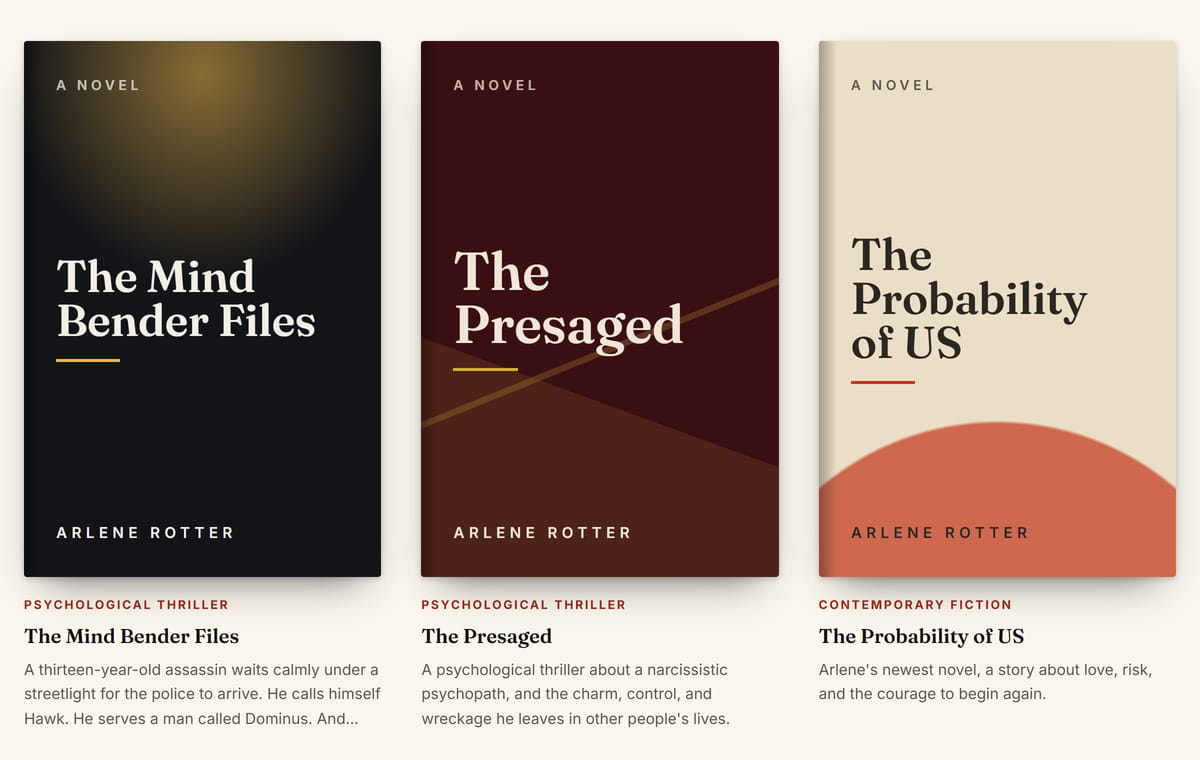
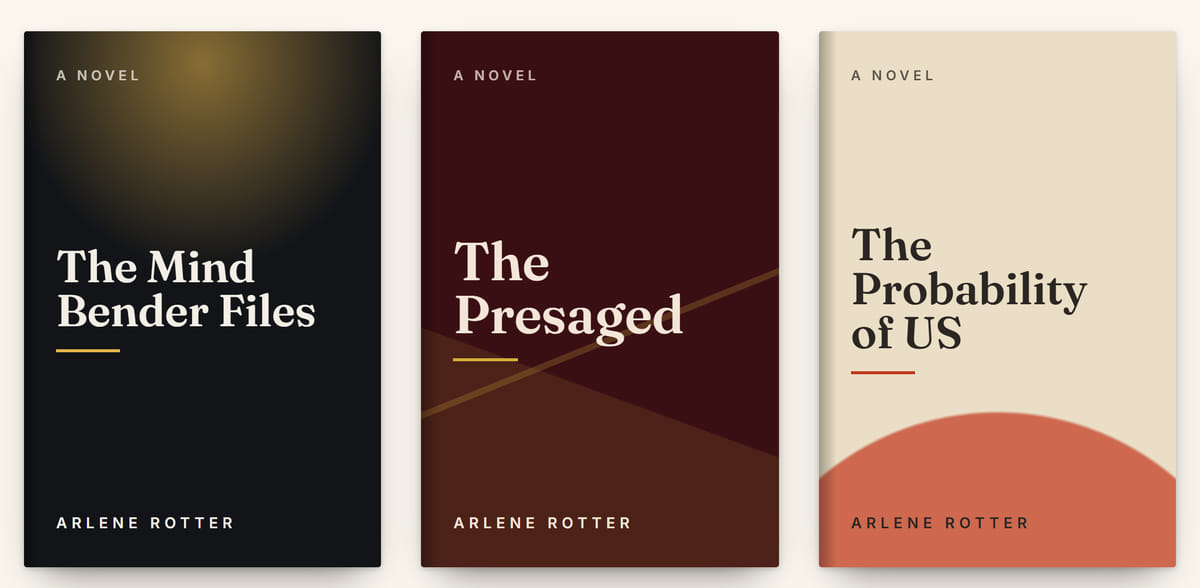
add

diff --git a/pages/work-with-us/projects/arlene-rotter-author.vue b/pages/work-with-us/projects/arlene-rotter-author.vue
@@ -1,6 +1,8 @@
 <template>
   <div>
-    <!-- Concept prototype, not client work: shown with Arlene's permission, noindex until she agrees to more -->
+    <!-- Concept prototype, not client work. Arlene agreed on 2026-10-30 to it being featured here, on the terms
+         Quan gave her: labelled as a prototype, credited to her, and none of her unpublished writing without her
+         permission. Do not quote her private messages without asking her. -->
     <!-- Hero Section -->
     <section class="hero">
       <div class="hero-content">
@@ -20,14 +22,14 @@
         <div class="hero-meta">
           <span class="meta-tag">Role: Concept, Design &amp; Development</span>
           <span class="meta-tag">Author &amp; Novelist</span>
-          <!-- The prototype is noindex, nofollow itself, so the link passes nothing on -->
-          <a href="https://arlene-rotter.skill-wanderer.com" target="_blank" rel="noopener noreferrer nofollow" class="meta-tag link-tag">arlene-rotter.skill-wanderer.com →</a>
+          <!-- No link to the live prototype until Arlene confirms: it carries the full Chapter One of an unpublished
+               novel. When she does, add it back here with rel="noopener noreferrer nofollow". -->
         </div>
         <div class="prototype-banner">
           <span class="prototype-banner-label">Concept Prototype</span>
           <p>
-            Built by Skill-Wanderer in October 2026 and shown here with Arlene's permission. It is not her official
-            website and not a client project, and its contact form is a demo that sends nothing.
+            A free prototype we built for Arlene, shown here with her permission. The books and the writing are hers;
+            the design and the build are ours. It is not her official website and not a client project.
           </p>
         </div>
       </div>
@@ -39,7 +41,7 @@
         <h2>Overview</h2>
         <p>
           Dr. Arlene Rotter spent 41 years in education, earned a Ph.D., founded her own school, and now writes full
-          time as The Rebel Writer™. She has written more than 25 books, from psychological thrillers and political
+          time as The Rebel Writer™. She has written 25 books and counting, from psychological thrillers and political
           sci-fi to historical fiction, memoir and Southern humor, and she is seeking literary representation for
           three finished novels. This prototype shows the website that kind of career needs: a shelf for the
           published books, a pitch for the new manuscripts, and a way to try her voice before committing to a whole
@@ -48,8 +50,22 @@
       </div>
     </section>
 
-    <!-- The Challenge Section -->
+    <!-- How It Started Section -->
     <section class="detail-section">
+      <div class="detail-container">
+        <h2>How It Started</h2>
+        <p>
+          I had been reading Arlene's posts on LinkedIn since the spring of 2026, and as we talked, her goal became
+          clear: to put her books in front of far more readers, with a literary agent behind them. A website could
+          help, but that is easier to show than to explain, so I offered to build a prototype first, with no upfront
+          payment and no obligation to keep it. Two days later it was online, built from her writing, our
+          conversations and a sample chapter she shared with me.
+        </p>
+      </div>
+    </section>
+
+    <!-- The Challenge Section -->
+    <section class="detail-section darker">
       <div class="detail-container">
         <h2>The Challenge</h2>
         <p>
@@ -63,7 +79,7 @@
     </section>
 
     <!-- Agents Section -->
-    <section class="detail-section darker">
+    <section class="detail-section">
       <div class="detail-container">
         <h2>Built Around an Agent's Inbox</h2>
         <div class="highlight-box">
@@ -81,7 +97,7 @@
     </section>
 
     <!-- What I Built Section -->
-    <section class="detail-section">
+    <section class="detail-section darker">
       <div class="detail-container">
         <h2>What I Built</h2>
         <p class="section-intro">
@@ -164,8 +180,9 @@
       </div>
     </section>
 
-    <!-- Screens Section: screenshots of the live prototype, taken 2 November 2026 -->
-    <section class="detail-section darker">
+    <!-- Screens Section: screenshots of the live prototype, taken 2 November 2026.
+         Keep them free of her unpublished prose and of the premises of her unpublished novels. -->
+    <section class="detail-section">
       <div class="detail-container">
         <h2>Inside the Prototype</h2>
         <div class="screens-grid">
@@ -198,7 +215,7 @@
     </section>
 
     <!-- Tech Stack Section -->
-    <section class="detail-section">
+    <section class="detail-section darker">
       <div class="detail-container">
         <h2>Tech Stack &amp; Hosting</h2>
         <div class="tech-grid">
@@ -239,7 +256,7 @@
     </section>
 
     <!-- My Role Section -->
-    <section class="detail-section darker">
+    <section class="detail-section">
       <div class="detail-container">
         <h2>My Role</h2>
         <p class="section-intro">
@@ -256,33 +273,50 @@
     </section>
 
     <!-- Why It Is Here Section -->
-    <section class="detail-section">
+    <section class="detail-section darker">
       <div class="detail-container">
         <h2>Why It Is in Our Portfolio</h2>
         <blockquote class="featured-quote">
-          Compare this site with the ones we built for
+          This is what our free prototype looks like: a working site, made for one person, before any payment or
+          commitment. Compare it with the ones we built for
           <NuxtLink to="/work-with-us/projects/matt-harr-speaker">a speaker</NuxtLink>,
           <NuxtLink to="/work-with-us/projects/broad-strokes-studio">a calligrapher</NuxtLink> and
           <NuxtLink to="/work-with-us/projects/the-meek-method">a coach</NuxtLink>, and you will find no shared
-          template. Each business needs different pages, a different path to the first enquiry, and a different
-          first impression. That is why every accepted project starts with a free working prototype: you react to a
-          site made for your business before you commit to anything.
+          template, because each business needs different pages, a different path to the first enquiry, and a
+          different first impression. It is also here, with Arlene's permission, to help a few more readers find The
+          Rebel Writer.
         </blockquote>
       </div>
     </section>
 
     <!-- Project Status Section -->
-    <section class="detail-section darker">
+    <section class="detail-section">
       <div class="detail-container">
         <h2>Project Status</h2>
         <div class="status-box">
           <span class="status-indicator">Concept Prototype</span>
           <p>
-            The prototype is online and shown here with Arlene's permission. It is not her official website, so
-            details on it may be out of date, and its contact form is a demo that sends nothing. To reach Arlene
-            herself,
-            <a href="https://www.linkedin.com/in/arlene-rotter-6359711b8" target="_blank" rel="noopener noreferrer">message her on LinkedIn</a>.
+            This is still a prototype, shown here with Arlene's permission. It is not her official website, so details
+            in it may be out of date, and its contact form is a demo that sends nothing. Whether it ever becomes her
+            real site is up to her, in her own time.
           </p>
+        </div>
+      </div>
+    </section>
+
+    <!-- Credit Section: the proper credit, and the help finding her books, that Quan promised Arlene -->
+    <section class="detail-section darker">
+      <div class="detail-container">
+        <h2>Arlene's Own Work</h2>
+        <p>
+          The books, the sample chapter and the life story in this prototype are Dr. Arlene Rotter's own work.
+          Skill-Wanderer did the structure, the design and the build. To read her, start with her published books, or
+          follow the new writing she shares most days on LinkedIn, which is also the way to reach her.
+        </p>
+        <div class="credit-links">
+          <a href="https://www.amazon.com/s?k=Arlene+Rotter" target="_blank" rel="noopener noreferrer" class="meta-tag link-tag">Her books on Amazon →</a>
+          <a href="https://www.goodreads.com/author/show/4201599.Arlene_Rotter" target="_blank" rel="noopener noreferrer" class="meta-tag link-tag">Her books on Goodreads →</a>
+          <a href="https://www.linkedin.com/in/arlene-rotter-6359711b8" target="_blank" rel="noopener noreferrer" class="meta-tag link-tag">Arlene on LinkedIn →</a>
         </div>
       </div>
     </section>
@@ -316,7 +350,7 @@ useSEO({
     'A concept author website for Dr. Arlene Rotter, shown with her permission: a shelf by genre, covers set in type, a chapter reader and a page for agents.',
   image: '/projects/arlenerotter/card.jpg',
   keywords: ['author website design', 'website for authors', 'literary agent page', 'book website prototype', 'Astro website case study'],
-  // Not client work: kept out of search (and the sitemap, see nuxt.config) until Arlene agrees to wider promotion
+  // Kept out of search (and the sitemap, see nuxt.config) for now: Quan decides when to open it up
   robots: 'noindex, follow',
   structuredData: createBreadcrumbSchema([
     { name: 'Home', url: 'https://skill-wanderer.com/' },
@@ -677,7 +711,15 @@ useSEO({
   line-height: 1.8;
 }
 
-.status-box a,
+/* ── Credit ───────────────────────────────────────── */
+.credit-links {
+  display: flex;
+  flex-wrap: wrap;
+  gap: 15px;
+  margin-top: 28px;
+}
+
+/* ── Featured Quote ───────────────────────────────── */
 .featured-quote a {
   color: var(--primary-orange);
   font-weight: 600;
@@ -686,12 +728,10 @@ useSEO({
   transition: color 0.3s ease;
 }
 
-.status-box a:hover,
 .featured-quote a:hover {
   color: #FFD93D;
 }
 
-/* ── Featured Quote ───────────────────────────────── */
 .featured-quote {
   background: linear-gradient(135deg, rgba(255, 107, 53, 0.1), rgba(255, 217, 61, 0.05));
   border-left: 4px solid var(--primary-orange);

diff --git a/pages/work-with-us/our-projects.vue b/pages/work-with-us/our-projects.vue
@@ -320,16 +320,17 @@
       </div>
     </section>
 
-    <!-- Concept Prototype Section: not client work, shown with the author's permission.
-         Keep it out of client lists and the homepage until she agrees to more. -->
+    <!-- Concept Prototype Section: not client work, so keep it out of client lists.
+         Arlene agreed on 2026-10-30 to the prototype being featured on this site. -->
     <section class="projects-section">
       <div class="content">
         <div class="section-header">
           <div class="section-tag">Concept Prototype</div>
           <h2>An Author's Site, Not a Template</h2>
           <p>
-            Not client work: a working prototype we built for author Arlene Rotter, shown with her permission. Set it
-            beside the speaker, calligrapher and coach above, and no two of these sites share a template.
+            Not client work: this is the free working prototype we built for author Arlene Rotter, shown with her
+            permission. It is what you see before you decide anything. Set it beside the speaker, calligrapher and
+            coach above, and no two of these sites share a template.
           </p>
         </div>
 
@@ -342,7 +343,7 @@
             <div class="case-study-body">
               <h3>Arlene Rotter, The Rebel Writer™</h3>
               <p class="case-study-result">
-                A concept website for an author of more than 25 books who is seeking an agent: a shelf sorted by
+                The free prototype for an author with 25 books and counting, now seeking an agent: a shelf sorted by
                 genre, covers set in type for unpublished novels, a sample chapter reader, and a one-page pitch for
                 literary agents.
               </p>

diff --git a/nuxt.config.ts b/nuxt.config.ts
@@ -13,7 +13,7 @@ export default defineNuxtConfig({
     exclude: [
       '/partners',
       '/partners/**',
-      // Concept prototype, not client work: noindex until Arlene agrees to wider promotion
+      // Arlene Rotter's prototype is kept out of search for now, see its page
       '/work-with-us/projects/arlene-rotter-author',
     ],
     defaults: {
